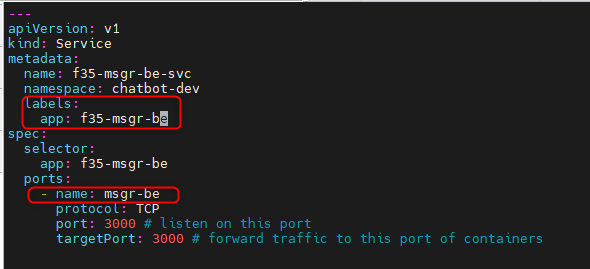
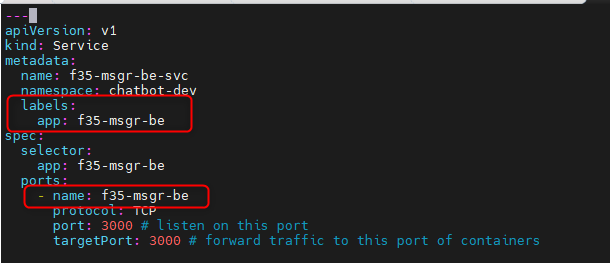
19/12/2023

Changed region(s): [[0.0, 0.0, 1.0, 1.0]]

diff --git a/FPT-AI/03.Ansible/docs/24.install-bull.md b/FPT-AI/03.Ansible/docs/24.install-bull.md
@@ -1,0 +1,102 @@
+<h1 style="color:orange">Install bull-exporter</h1>
+<h2 style="color:orange">1. Chuẩn bị</h2>
+Bull-exporter là exporter lấy metric của redis và đẩy cho prometheus.
+
+Cài đặt sẵn kube-prometheus trong k8s cluster.<br>
+Cài đặt redis, IP: 10.51.0.40:6379<br>
+Server cài đặt bull-exporter đã được cài docker và docker-compose, phải thông kết nối đến redis server<br>
+Docker version 24.0.2, build cb74dfc<br>
+docker-compose version 1.29.2, build 5becea4c<br>
+<h2 style="color:orange">2. Cài đặt</h2>
+Tạo folder cho bull_exporter
+
+    # mkdir -p ~/bull-exporter && cd ~/bull-exporter
+    # vim docker-compose.yaml
+paste vào
+```
+version: '3.2'
+services:
+  bull-exporter:
+    image: uphabit/bull_exporter:latest
+    ports:
+      - 9538:9538
+    environment:
+      EXPORTER_REDIS_URL: redis://:password@10.51.0.40:6379/1
+      EXPORTER_PREFIX: 'fptai_bl:be-job-queue'
+      EXPORTER_QUEUES: 'auto_mad send_broadcast send_reminder send_file long_wait send_broadcast_old'
+      EXPORTER_AUTODISCOVER: 0
+```
+Tham khảo: https://github.com/UpHabit/bull_exporter
+
+    # docker-compose up -d
+Exporter sẽ listen port 9538 trên server, lưu ý, phải mở firewall để có thể lấy được metrics từ port này.
+
+Kiểm tra:<br>
+![install-bull1](../img/install-bull1.png)<br>
+<h2 style="color:orange">3. Add target vào kube-prometheus</h2>
+Ý tưởng là add endpoint, service và servicemonitor cho endpoint bull-exporter
+
+    # vim bull-exporter.yaml
+paste vào nội dung
+```
+---
+apiVersion: v1
+kind: Endpoints
+metadata:
+  labels:
+    app.kubernetes.io/component: endpoint
+    app.kubernetes.io/name: bull-exporter
+    app.kubernetes.io/part-of: chatbot-dev
+  name: bull-exporter
+  namespace: chatbot-dev
+subsets:
+- addresses:
+  - ip: 10.51.0.40
+  - ip: xx.xx.xx.xx
+  ports:
+  - name: bull-exporter-port
+    port: 9538
+---
+apiVersion: v1
+kind: Service
+metadata:
+  labels:
+    app.kubernetes.io/component: endpoint
+    app.kubernetes.io/name: bull-exporter
+    app.kubernetes.io/part-of: chatbot-dev
+  name: bull-exporter
+  namespace: chatbot-dev
+spec:
+  clusterIP: None
+  ports:
+  - name: bull-exporter-port
+    port: 9538
+---
+apiVersion: monitoring.coreos.com/v1
+kind: ServiceMonitor
+metadata:
+  labels:
+    release: prometheus
+  name: bull-exporter
+  namespace: chatbot-dev
+spec:
+  endpoints:
+  - interval: 60s
+    port: bull-exporter-port
+    path: /metrics
+  selector:
+    matchLabels:
+      app.kubernetes.io/component: endpoint
+      app.kubernetes.io/name: bull-exporter
+      app.kubernetes.io/part-of: chatbot-dev
+```
+Lưu ý, phần `spec.ports.name` giữa các resource phải trùng nhau<br>
+Phần `metadata.labels` giữa các resources phải trùng nhau<br>
+Phần `metadata.name` giữa các resources cũng phải trùng nhau.<br>
+Endpoints có thể add nhiều ip.<br>
+Tham khảo: https://github.com/thaum-xyz/ankhmorpork/tree/master/apps/homeassistant/manifests/esphomedevices
+
+Kiểm tra đã có target trên kube-prometheus<br>
+![install-bull2](../img/install-bull2.png)<br>
+Trên grafana import dashboard: ID: 10128<br>
+![install-bull3](../img/install-bull3.png)<br>

diff --git a/FPT-AI/03.Ansible/docs/23.backup-db.md b/FPT-AI/03.Ansible/docs/23.backup-db.md
@@ -84,3 +84,62 @@ PATH=/usr/local/sbin:/usr/local/bin:/usr/sbin:/usr/bin:/root/bin
 # -----------------------------------
 42 22 * * * find /root/cron-backup/MongoDB-dumped/ -mtime +60 | xargs rm -rf {} \;
 ```
+<h3 style="color:orange">2.1. Đẩy dữ liệu lên s3</h3>
+Cài đặt s3cmd. Tạo file config cho s3cmd với config:
+
+    # vim ~/.s3cfg
+paste vào config
+
+```
+# Setup endpoint
+host_base = s3-sgn09.fptcloud.com
+host_bucket = s3-sgn09.fptcloud.com
+bucket_location = us-east-1
+use_https = True
+
+# Setup access keys
+access_key = <access key>
+secret_key = <secret key>
+
+# Enable S3 v4 signature APIs
+signature_v2 = False
+```
+
+Câu lệnh để đẩy object lên s3:
+
+    # s3cmd --quiet --limit-rate=5m --recursive put <file> s3://<bucket>/<path>/
+Paste vào command để tạo job crontab đẩy dữ liệu lên s3 hàng ngày
+
+    # crontab -e
+    paste vào
+    16 19 * * * find /root/cron-backup/MongoDB-dumped/ -type f -name "*--$(/bin/date -d 'yesterday' '+\%Y-\%m-\%d')T*" -exec sh -c '/usr/bin/s3cmd -v put "$0" "s3://<bucket>/Mongodb-dumped/${0##*/}"' {} \;
+<h3 style="color:orange">2.1.1. Cài đặt phân quyền trên s3</h3>
+Để lấy được access_key và secret_key. Trên s3 tạo user: IAM<br>
+
+![backup-db4](../img/backup-db4.png)<br>
+User name: Tên user<br>
+Path: "/"<br>
+Create new key: để lấy access và secret key<br>
+
+Tiếp tục phân quyền cho user: IAM POLICIES > Add IAM POLICY<br>
+![backup-db5](../img/backup-db5.png)<br>
+Phân quyền:<br>
+![backup-db6](../img/backup-db6.png)<br>
+Trong đó, `fci-chatbot-hc-public` là tên bucket cần đẩy dữ liệu vào.
+
+```
+{
+    "Version": "2012-10-17",
+    "Statement": [
+         {
+            "Sid": "VisualEditor0",
+            "Effect": "Allow",
+            "Action": "s3:*",
+            "Resource": [
+                "arn:aws:s3:::fci-chatbot-hc-public",
+                "arn:aws:s3:::*/*"
+            ]
+        }
+    ]
+}
+```

diff --git a/FPT-AI/02.K8s/docs/18.add-cronjob.md b/FPT-AI/02.K8s/docs/18.add-cronjob.md
@@ -1,0 +1,72 @@
+<h1 style="color:orange">Tạo cronjob trên k8s</h1>
+Tạo service account để phân quyền cho cronjob
+
+```
+---
+kind: ServiceAccount
+apiVersion: v1
+metadata:
+  name: restart-deploy
+  namespace: chatbot-dev
+---
+apiVersion: rbac.authorization.k8s.io/v1
+kind: Role
+metadata:
+  name: restart-deployment
+  namespace: chatbot-dev
+rules:
+  - apiGroups: ["apps", "extensions"]
+    resources: ["deployments","pods"]
+    verbs: ["get", "patch", "list", "watch"]
+---
+apiVersion: rbac.authorization.k8s.io/v1
+kind: RoleBinding
+metadata:
+  name: restart-deployment
+  namespace: chatbot-dev
+roleRef:
+  apiGroup: rbac.authorization.k8s.io
+  kind: Role
+  name: restart-deployment
+subjects:
+  - kind: ServiceAccount
+    name: restart-deploy
+    namespace: chatbot-dev
+```
+
+Tạo cronjob để restart deployment daily
+
+```
+apiVersion: batch/v1
+kind: CronJob
+metadata:
+  name: restart-adapter-deploy
+  namespace: chatbot-dev
+spec:
+  failedJobsHistoryLimit: 2
+  schedule: '*/1 * * * *'
+  successfulJobsHistoryLimit: 0
+  jobTemplate:
+    spec:
+      backoffLimit: 2
+      activeDeadlineSeconds: 600
+      template:
+        spec:
+          restartPolicy: Never
+          serviceAccountName: restart-deploy
+          containers:
+            - name: kubectl
+              image: bitnami/kubectl
+              command: [ "/bin/sh", "-c" ]
+              args:
+                - 'kubectl rollout restart deployment/mdw-deploy -n chatbot-dev'
+```
+
+Lưu ý: áp dụng `apiVersion: batch/v1beta1` với k8s version 1.20 trở xuống và `apiVersion: batch/v1` với k8s version 1.21 trở lên.
+
+Để check các resources api của k8s cluster:
+
+    # kubectl api-versions | grep batch
+Script thực hiện restart pod của deployment: adapter-deploy
+
+Tham khảo: https://iceburn.medium.com/easy-way-to-schedule-pod-restart-in-kubernetes-4d6ca2d9e958

diff --git a/FPT-AI/03.Ansible/docs/25.note-nlp-engine.md b/FPT-AI/03.Ansible/docs/25.note-nlp-engine.md
@@ -1,0 +1,30 @@
+<h1 style="color:orange">Test nlp</h1>
+
+Trong con Engine-01 cụm VPB-voicebot anh có để 2 file predict.json và train.json nhé<br>
+Trong thư mục /home/ubuntu ấy
+
+    # http POST http://localhost:5001/train/joint @train.json
+    http POST http://localhost:5001/predict/joint @predict.json
+Chạy 2 lệnh này để train và predict nhé<br>
+Thường thì test bằng Postman cũng được<br>
+Thông tin lệnh ở đây: https://gitlab.fci.vn/chatbot/nlp-engine-v4/-/blob/production/httpie.md?ref_type=heads
+Data mẫu ở đây: https://gitlab.fci.vn/chatbot/nlp-engine-v4/-/tree/production/tests?ref_type=heads
+
+Có thể độ chính xác nhận diện ko đúng nhưng vẫn check được là engine dựng có ok hay ko
+
+Có cái code unittest anh viết đó
+Lâu lắm rùi
+Dùng cũng được
+<h2 style="color:orange">Xóa model nlp</h2>
+Script minio-cleanup trên con 10.11.0.31 cụm VIB-voicebot, path: /home/ubuntu/minio-cleanup/run-cleanup.py<br>
+
+Còn lúc chạy phát đầu thì chạy test rồi check lại dung lượng rồi bảo người test kiểm tra lại xem có predict bình thường không<br>
+Đóng dòng `my_client.remove_object(my_bucket_name, item)` trong code.
+
+Lúc chạy thì phải activate venv lên<br>
+Chạy giống thế này (trong crontab cũng chạy thế):<br>
+
+    # cd /home/ubuntu/minio-cleanup && . .venv/bin/activate && ./run-cleanup.py
+Nhớ đòng cái dòng kia trước khi chạy nhé<br>
+
+Ko là thành xóa thật

diff --git a/FPT-AI/01.Ly-thuyet/docs/09.disk-increase.md b/FPT-AI/01.Ly-thuyet/docs/09.disk-increase.md
@@ -1,0 +1,11 @@
+<h1 style="color:orange">Tăng dung lượng disk</h1>
+Tăng dung lượng ổ đĩa mount. Ví dụ: Ổ đĩa được mount vào phân vùng /dev/sb1. Sau khi tăng dung lượng ổ đĩa mount từ 300G -> 500G. Chạy các lệnh:
+
+    # rescan-scsi-bus.sh -s
+    # growpart /dev/sdb 1
+    # resize2fs /dev/sdb1
+Lệnh đầu là để quét xem có thay đổi gì về device hay không. Nó sẽ nhận cái 300GB --> 500GB<br>
+Lệnh thứ hai là resize partition 1 của /dev/sdb<br>
+Cái cuối cùng thì resize filesystem (ở đây là ext4)<br>
+
+![disk-increase1](../img/disk-increase1.png)<br>

diff --git a/FPT-AI/03.Ansible/docs/13.note-deploy.md b/FPT-AI/03.Ansible/docs/13.note-deploy.md
@@ -106,3 +106,16 @@ Nhập email, nhập password. Câu lệnh sẽ tạo user trên keycloak
 ![note-deploy3](../img/note-deploy3.png)<br>
 Đồng thời nhập các domain vào phần Valid Redirect URIs<br>
 ![note-deploy9](../img/note-deploy9.png)<br>
+
+Nếu user đã được tạo thì chạy lệnh:
+```
+python manage.py shell
+ 
+>>> from django.contrib.auth import get_user_model
+>>> User = get_user_model()
+>>> user = User.objects.get(email="huynp19@fpt.com")
+>>> user.is_staff = True
+>>> user.is_admin = True
+>>> user.is_superuser = True
+>>> user.save()
+```

diff --git a/FPT-AI/03.Ansible/docs/16.deploy-kb.md b/FPT-AI/03.Ansible/docs/16.deploy-kb.md
@@ -33,7 +33,7 @@ Vào từng folder, chạy lệnh:
     # helm install -f <file-value> <release-name> ./ -n <name-space>
     # helm install -f value-hcid.yaml kb-platform ./ -n kb
     các handy command khác
-    # helm delete -f value-hcid.yaml
+    # helm delete value-hcid.yaml
     # helm upgrade -f value-hcid.yaml kb-platform ./ -n kb      #để update biến
     # helm list
 Sau khi deploy bằng helm cho tất cả các service:<br>

diff --git a/FPT-AI/02.K8s/docs/17.install-prometheus-k8s.md b/FPT-AI/02.K8s/docs/17.install-prometheus-k8s.md
@@ -90,12 +90,12 @@ metadata:
   name: f35-msgr-be-svc
   namespace: chatbot-dev
   labels:
-    app: f35-msgr-be-metrics
+    app: f35-msgr-be
 spec:
   selector:
     app: f35-msgr-be
   ports:
-    - name: msgr-be
+    - name: f35-msgr-be
       protocol: TCP
       port: 3000 # listen on this port
       targetPort: 3000 # forward traffic to this port of containers

diff --git a/FPT-AI/01.Ly-thuyet/docs/05.npm-install.md b/FPT-AI/01.Ly-thuyet/docs/05.npm-install.md
@@ -35,3 +35,11 @@ Kiểm tra:
 
     # npm install -g jshint
 ![npm-install1](../img/npm-install1.png)<br>
+<h2 style="color:orange">3. Install trên ubuntu</h2>
+
+    # curl -sL https://deb.nodesource.com/setup_18.x | sudo -E bash -
+    # sudo apt-get install -y nodejs
+Để uninstall
+
+    # sudo apt-get purge nodejs npm
+    # sudo apt-get autoremove

diff --git a/FPT-AI/03.Ansible/docs/22.setup-control-server.md b/FPT-AI/03.Ansible/docs/22.setup-control-server.md
@@ -6,3 +6,4 @@
 
 ![setup-control-server1](../img/setup-control-server1.png)<br>
 <h2 style="color:orange">2. Setup kubectl client</h2>
+<h2 style="color:orange">3. Chuyển file dkey</h2>
